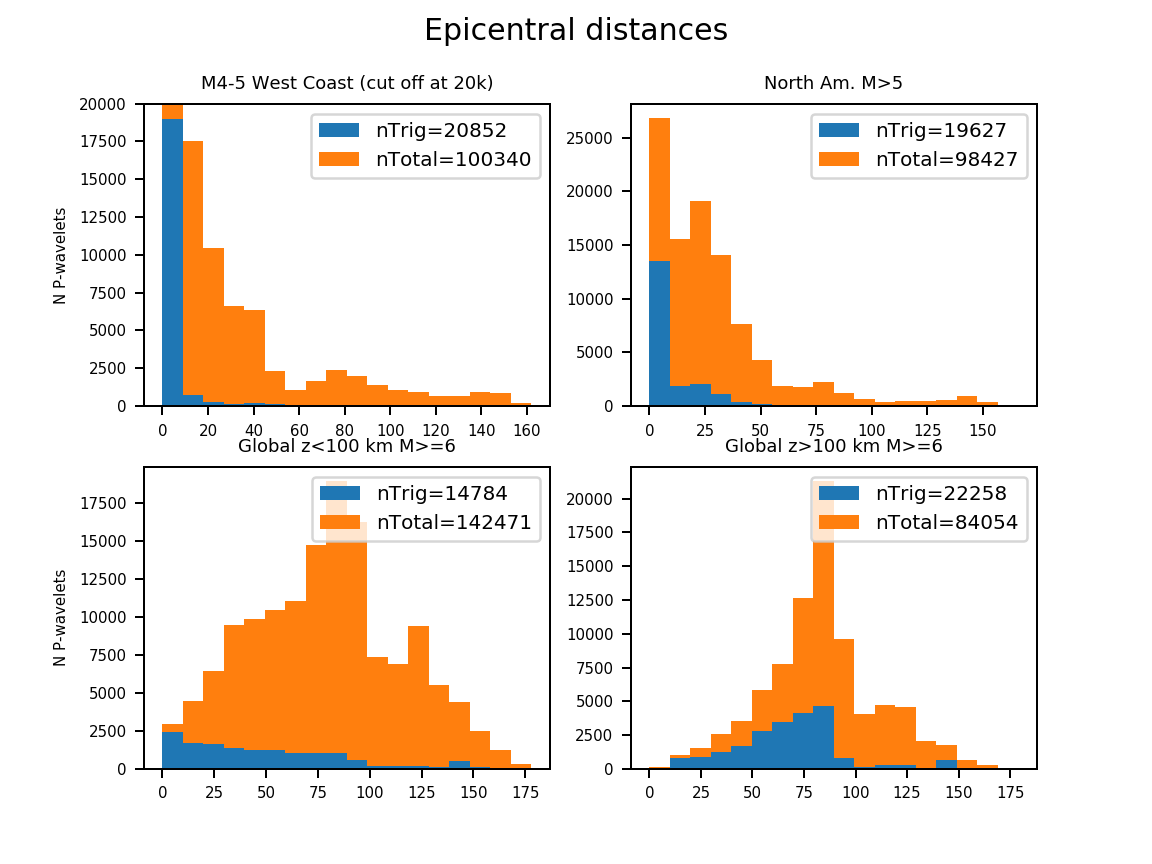
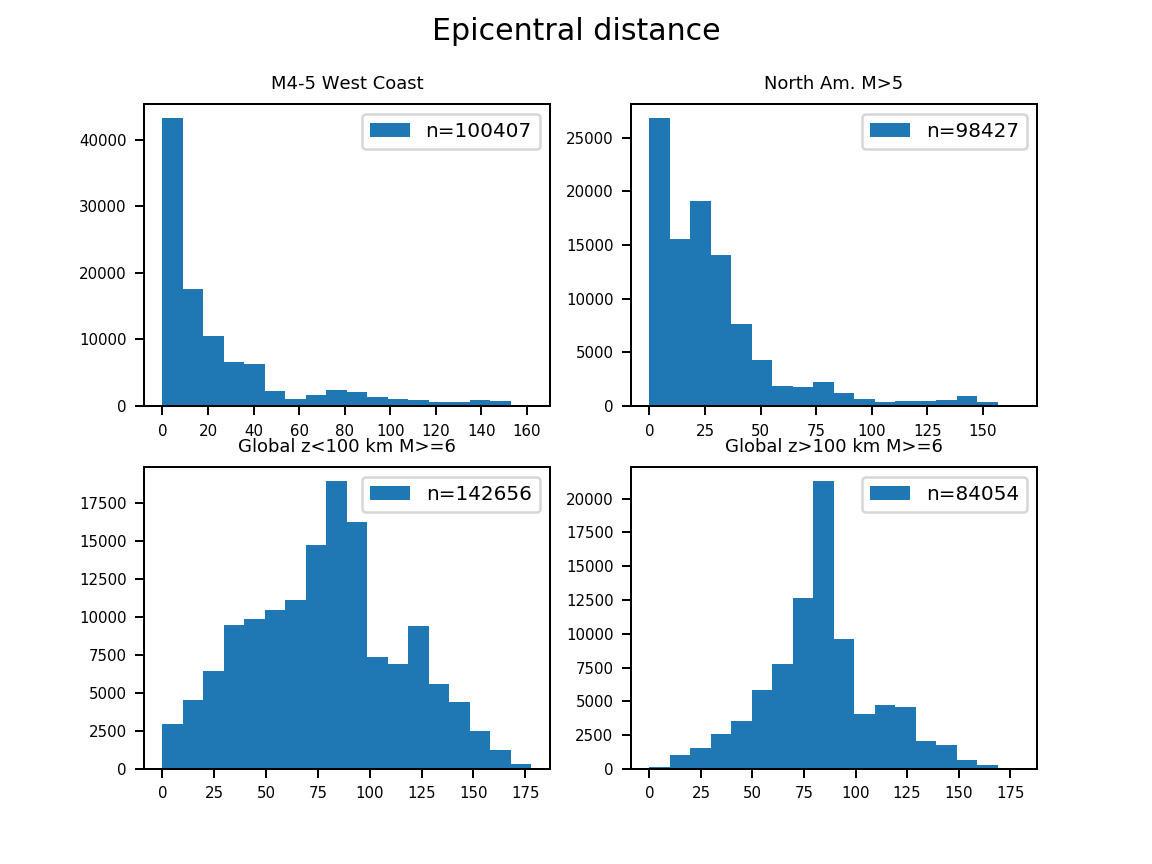
updating histograms

diff --git a/make_histograms.py b/make_histograms.py
@@ -201,9 +201,14 @@ plt.savefig(figname, dpi=180)
 nbins = 18
 x = distances
 xY = distancesY
-xY.append(max(distances))  #--- just to make binning the same
-xY.append(min(distances))
 xN = distancesN
+for i in range(0,4):   #--- just to make binning the same
+    x[i].append(180)
+    xY[i].append(180)
+    xN[i].append(180)
+    x[i].append(0)
+    xY[i].append(0)
+    xN[i].append(0)
 plt.rcParams['font.size'] = '6'
 fig, axs = plt.subplots(2, 2)
 axs[0,0].set_title('M4-5 West Coast (cut off at 20k)')
@@ -231,9 +236,12 @@ plt.savefig(figname, dpi=180)
 #----- histogram of magnitudes
 x = mags
 xY = magsY
-magsY.append(min(mags))
-magsY.append(max(mags))
 xN = magsN
+for i in range(0,4):    #--- just to make binning the same
+    xY[i].append(min(x[i]))
+    xY[i].append(max(x[i]))
+    xN[i].append(min(x[i]))
+    xN[i].append(max(x[i]))
 nbins = int(10*(max(x[0]) - min(x[0]))) +1
 plt.rcParams['font.size'] = '6'
 fig, axs = plt.subplots(2, 2)
@@ -261,13 +269,16 @@ fig.suptitle('Magnitudes',fontsize=12)
 figname = 'Mags_histogram.png'
 plt.savefig(figname, dpi=180)
 
-#----- histogram of distances
+#----- histogram of staltas
 nbins = 18
 x = staltas
 xY = staltasY
-xY.append(max(staltas))  #--- just to make binning the same
-xY.append(min(staltas))
 xN = staltasN
+for i in range(0,4):    #--- just to make binning the same
+    xY[i].append(min(x[i]))
+    xY[i].append(max(x[i]))
+    xN[i].append(min(x[i]))
+    xN[i].append(max(x[i]))
 plt.rcParams['font.size'] = '6'
 fig, axs = plt.subplots(2, 2)
 axs[0,0].set_title('M4-5 West Coast')
